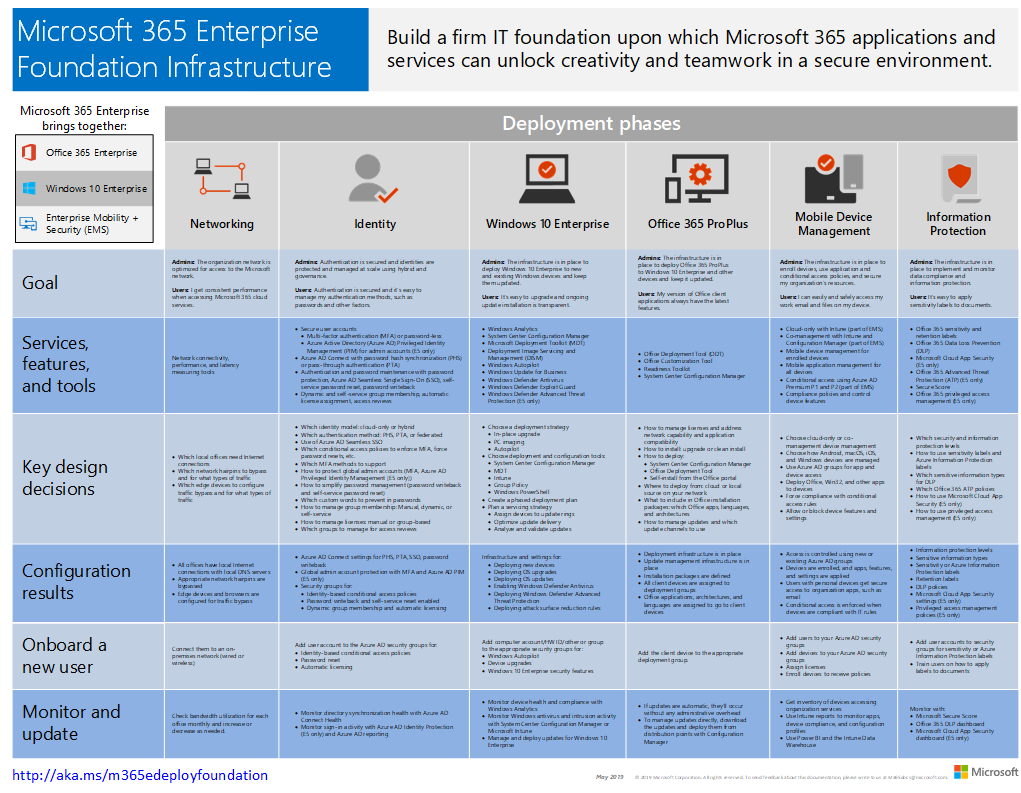
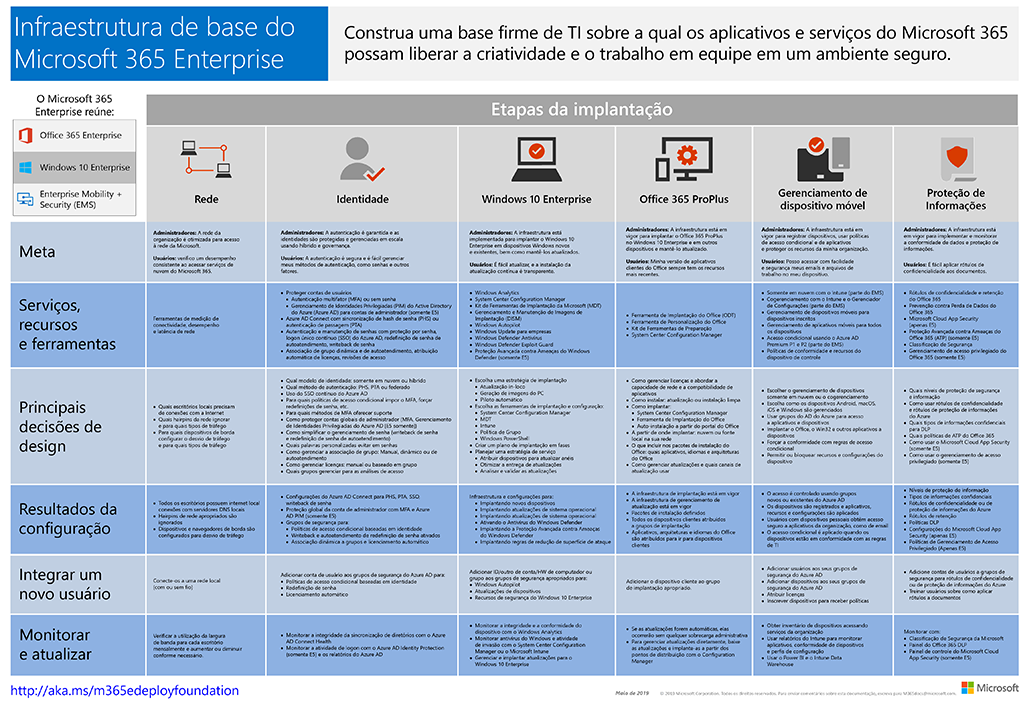
commit translated contents

diff --git a/microsoft-365/enterprise/includes/deployment-exit-criteria-identity.md b/microsoft-365/enterprise/includes/deployment-exit-criteria-identity.md
@@ -23,7 +23,7 @@ Se necessário, a [Etapa 2](../identity-designate-protect-admin-accounts.md#iden
 
 Use estas etapas para verificar se você protegeu suas contas de administrador global:
 
-1. Execute o seguinte comando do Azure AD V2 no prompt de comando do PowerShell. Você verá somente a lista de contas de administradores globais dedicados.
+1. Execute o seguinte comando do Azure Active Directory PowerShell for Graph no prompt de comando do PowerShell. Você verá somente a lista de contas de administradores globais dedicados.
    ```
    Get-AzureADDirectoryRole | where { $_.DisplayName -eq "Company Administrator" } | Get-AzureADDirectoryRoleMember | Ft DisplayName
    ```
